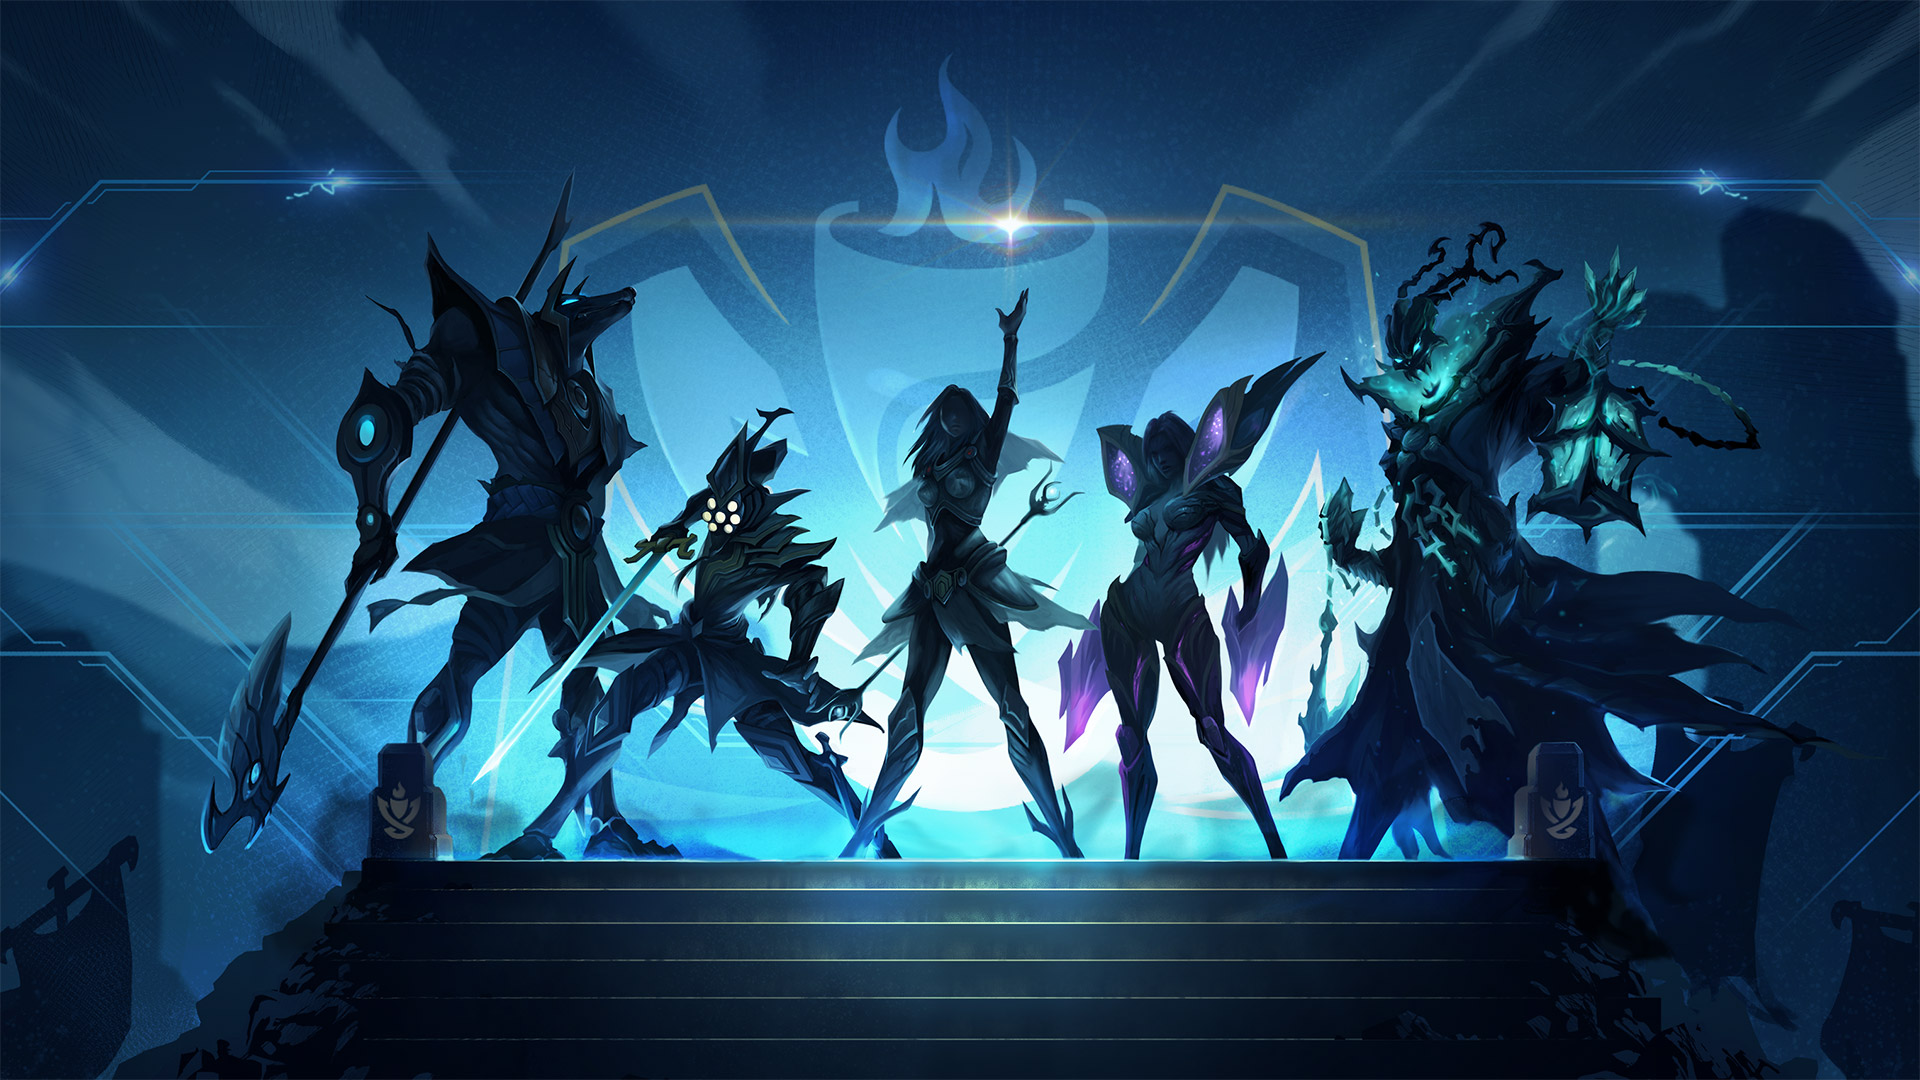
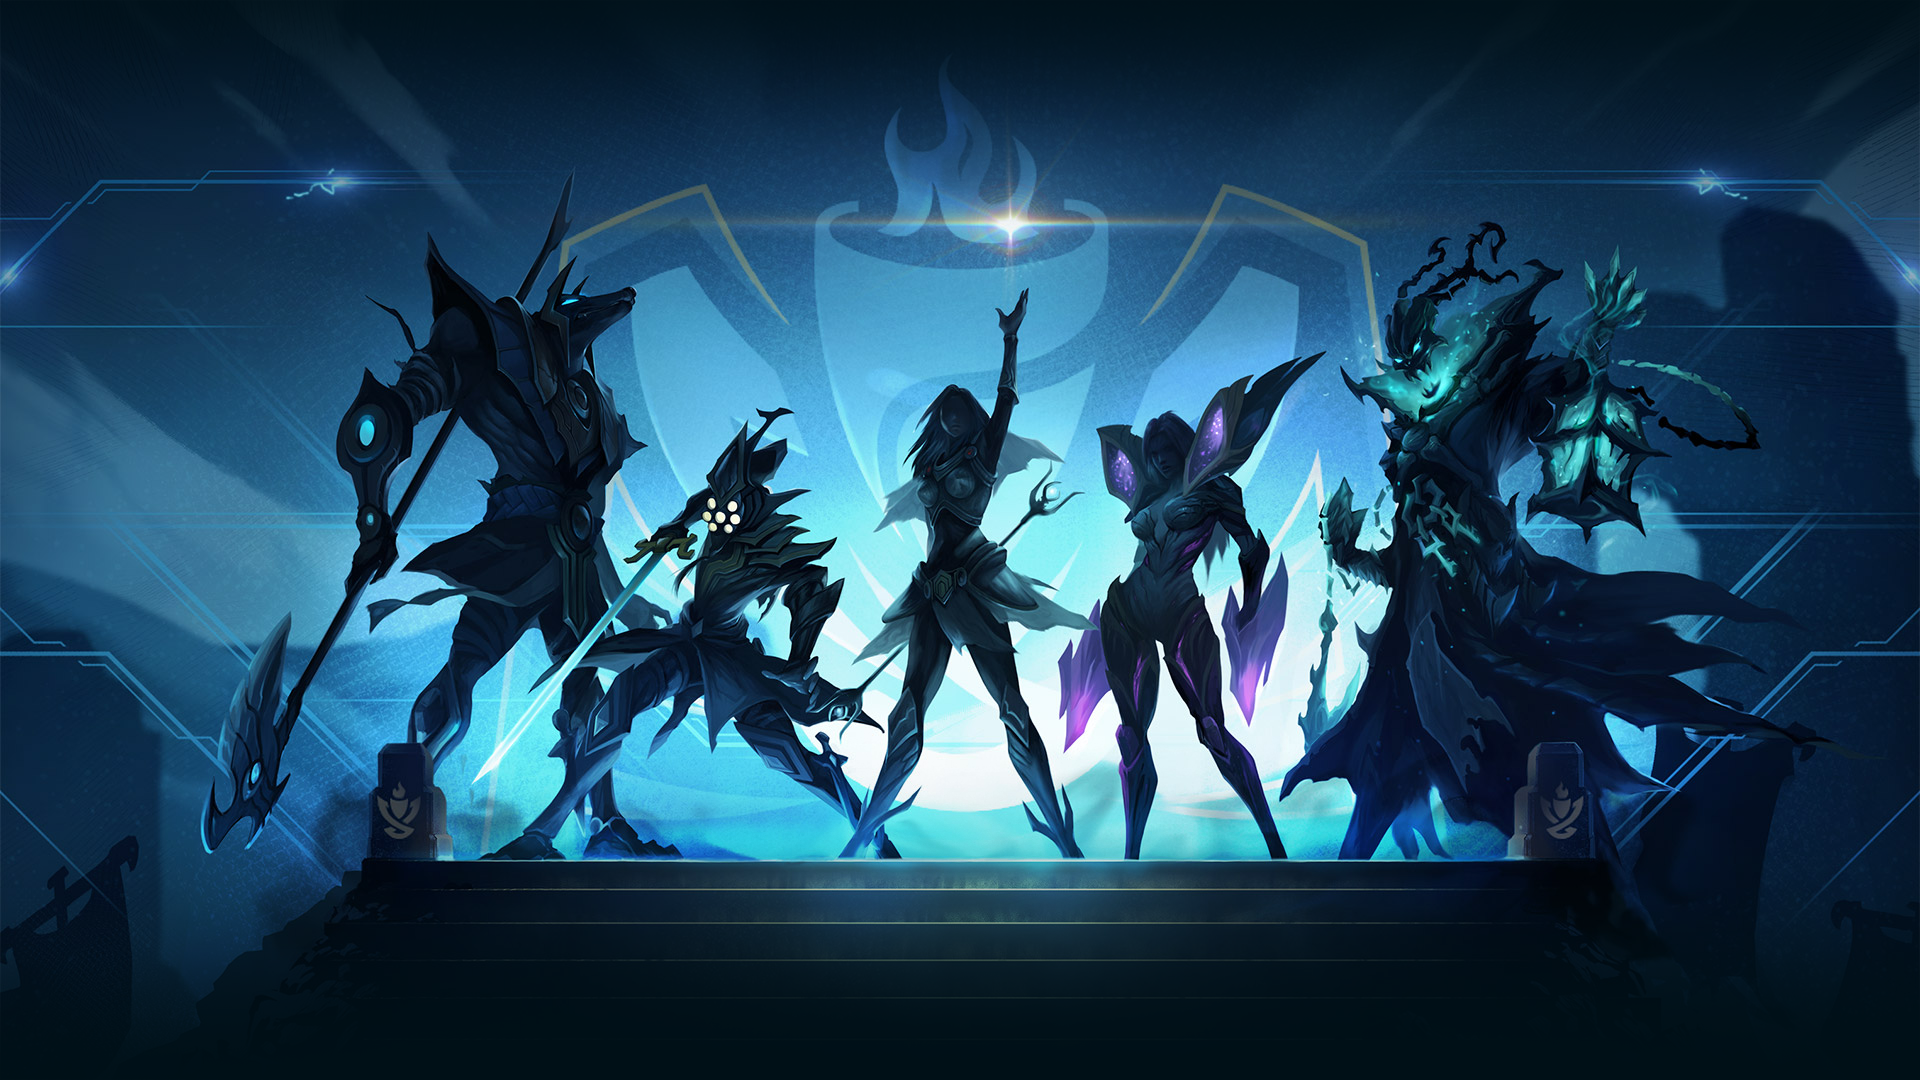
Intro

diff --git a/index.html b/index.html
@@ -13,24 +13,32 @@
 <!-- Head vege -->
 <body>
 
-  <header>
+  <header style="width:100%;">
     <a href="index.html"><img src="kepek/logo.png"></a>
     <nav>
       <ul>
         <li><a href="index.html">Főoldal</a></li>
         <li><a href="index.html">Hírek</a></li>
-        <li><a href="index.html">Elérhetőségek</a></li>
         <li><a href="index.html">Quiz</a></li>
         <div class="dropdown">
           <li>Rólunk<i class="fa fa-caret-down"></i></li>
           <div class="dropdown-content">
-            <a href="index.html">Jungle : Ayahuascae</a>
-            <a href="index.html">Top : frunci</a>
-            <a href="index.html">Bot : xHypeR</a>
-            <a href="index.html">Support : Rampataka</a>
-            <a href="index.html"><img src="kepek/mid.png" style="width:20px;height:20px;float:left;"/>&nbsp;&nbsp;&nbsp;&nbsp;&nbsp;Mid : MakeThemBounce</a>
+            <a href="#frunci"><img src="kepek/top.png" style="width:24px;height:24px;float:left;"/>&nbsp;&nbsp;&nbsp;&nbsp;&nbsp;Frunci<img src="kepek/top.png" style="width:24px;height:24px;float:right;"/></a>
+            <a href="index.html"><img src="kepek/jung.png" style="width:24px;height:24px;float:left;"/>&nbsp;&nbsp;&nbsp;&nbsp;&nbsp;Ayahuascae<img src="kepek/jung.png" style="width:24px;height:24px;float:right;"/></a>
+            <a href="index.html"><img src="kepek/mid.png" style="width:24px;height:24px;float:left;"/>&nbsp;&nbsp;&nbsp;&nbsp;&nbsp;MakeThemBounce<img src="kepek/mid.png" style="width:24px;height:24px;float:right;"/></a>
+            <a href="index.html"><img src="kepek/adc.png" style="width:24px;height:24px;float:left;"/>&nbsp;&nbsp;&nbsp;&nbsp;&nbsp;xHypeR<img src="kepek/adc.png" style="width:24px;height:24px;float:right;"/></a>
+            <a href="index.html"><img src="kepek/sup.png" style="width:24px;height:24px;float:left;"/>&nbsp;&nbsp;&nbsp;&nbsp;&nbsp;Rampataka<img src="kepek/sup.png" style="width:24px;height:24px;float:right;"/></a>
           </div>
         </div>
+        <div class="dropdown">
+          <li>Elérhetőségek<i class="fa fa-caret-down"></i></li>
+          <div class="dropdown-content">
+            <a id="insta" target="_blank" href="https://www.instagram.com/a.takacs.tamas.m8/"><img src="kepek/insta.png" style="width:24px;height:24px;float:left;"/>&nbsp;&nbsp;&nbsp;&nbsp;&nbsp;Instagram<img src="kepek/insta.png" style="width:24px;height:24px;float:right;"/></a>
+            <a id="face" target="_blank" href="https://www.facebook.com/tamas.takacs.948/"><img src="kepek/face.png" style="width:24px;height:24px;float:left;"/>&nbsp;&nbsp;&nbsp;&nbsp;&nbsp;Facebook<img src="kepek/face.png" style="width:24px;height:24px;float:right;"/></a>
+            <a id="github" target="_blank" href="https://github.com/Getlar"><img src="kepek/github.png" style="width:24px;height:24px;float:left;"/>&nbsp;&nbsp;&nbsp;&nbsp;&nbsp;GitHub<img src="kepek/github.png" style="width:24px;height:24px;float:right;"/></a>
+          </div>
+        </div>
+        <li><a id="login"style="float:right;"href="index.html">Login<img src="kepek/login.png" style="width:24px;height:24px;float:right;"/></a></li>
       </ul>
     </nav>
   </header>
@@ -40,21 +48,45 @@
     <div class="szoveg">
       <h1>Diversity &nbsp;&nbsp;&nbsp;&nbsp;eSports</h1>
     </div>
-    <br>
-    <br>
-    <br>
-    <br>
-    <br>
-    <br>
-    <br>
-    <br>
-    <br>
-    <br>
-    <br>
-    <br>
-    <br>
-    <br>
+    <div class="intro">
+      Lorem ipsum dolor sit amet, consectetur adipiscing elit. Phasellus nec ex vitae lorem accumsan iaculis sed ut ex. Donec pellentesque eget velit rutrum ultricies. Praesent sagittis turpis a orci dignissim, in pretium urna pharetra. Sed ac gravida ligula, a vestibulum mi. Phasellus ut nisl sem. Vivamus consectetur libero in lectus cursus, at sodales nulla posuere. Proin efficitur lorem dui, quis convallis orci ultrices ut. Morbi non ornare purus. Cras ultricies blandit neque. Maecenas vel ligula ligula. Nunc feugiat, augue sit amet condimentum bibendum, sem massa rhoncus justo, sed elementum sem orci sed nulla. Donec euismod congue felis vitae blandit. Donec varius auctor maximus. Nunc iaculis enim nec mi suscipit dignissim. Pellentesque nec nulla vitae est volutpat maximus ut nec lacus.
+
+      Ut luctus fringilla viverra. Maecenas iaculis metus eu risus auctor, id porta dui finibus. Curabitur dictum libero eu ligula convallis cursus. Interdum et malesuada fames ac ante ipsum primis in faucibus. Sed sagittis lacus felis, a aliquet metus porttitor sed. Cras posuere nisl ut lectus eleifend, eu blandit erat mollis. Donec dignissim risus quis neque semper, nec fermentum mi mollis. Nullam lorem nisl, molestie non sem ac, venenatis interdum justo.
+
   </div>
+  <img class="separator" src="kepek/hr.png">
+  <div class="roles">
+    <p>Pozíciók</p>
+    <img class="sumicon" src="kepek/sumicon.png">
+    <div id="frunci">
+
+    </div>
+  </div>
+  <br>
+  <br>
+  <br>
+  <br>
+  <br>
+  <br>
+
+  <br>
+  <br>
+  <br>
+  <br>
+
+
+
+  <br>
+  <br>
+  <br>
+  <br>
+  <br>
+  <var>
+  <br>
+  <br>
+  <br>
+  <br>
+  <br>
 
 
   <!--

diff --git a/styles.css b/styles.css
@@ -1,6 +1,6 @@
 @charset "UTF-16";
 body{
-  background-color: #3e4444;
+  background-color: #001017;
   /*background-image: url('kepek/bk.png');
   background-repeat: no-repeat;
   background-attachment: fixed;
@@ -46,12 +46,8 @@ header li a{
 }
 header li a:hover{
    text-shadow: 5px 5px 5px black;
-   color:#E4D33F;
+   color:#cdba87;
 }
-
-
-
-
 
 
 header .dropdown li {
@@ -71,7 +67,7 @@ header .dropdown{
 header .dropdown-content{
   display: none;
   position:absolute;
-  background-color: rgb(0,16,23,0.8);
+  background-color: rgb(0,16,23,0.6);
   min-width: 100px;;
   box-shadow: 0px 8px 16px 0px rgba(0,0,0,0.2);
   z-index: 1;
@@ -79,6 +75,12 @@ header .dropdown-content{
 header .dropdown-content a{
   float: none;
   padding: 10px;
+  color: white;
+  text-transform: uppercase;
+  border: 2px solid black;
+  border-top: 0px;
+  font-family: "Calibri",sans-serif;
+  font-size: 15px;
   padding-left: 0px;
   padding-right: 20px;
   text-decoration: none;
@@ -90,21 +92,40 @@ header .dropdown:hover{
 }
 header .dropdown li:hover{
   text-shadow: 5px 5px 5px black;
-  color:#E4D33F;
+  color:#cdba87;
 }
 
 header .dropdown:hover .dropdown-content{
   display:inline-grid;
 }
+header .dropdown .dropdown-content a:hover{
+  text-shadow: 3px 3px 3px black;
+  color:#cdba87;
+  background-color: rgba(255, 255, 255, 0.5);
+}
 
-
+header .dropdown .dropdown-content #insta:hover{
+  text-shadow: 3px 3px 3px black;
+  color:#cf4667;
+}
+header .dropdown .dropdown-content #face:hover{
+  text-shadow: 3px 3px 3px black;
+  color:#4267b2;
+}
+header .dropdown .dropdown-content #github:hover{
+  text-shadow: 3px 3px 3px black;
+  color:white;
+}
+header li #login:hover{
+  color:white;
+}
 
 
 .wrapper{
   background-image: url('kepek/bek.png');
   background-repeat: no-repeat;
   background-position: top center;
-  background-size: cover;
+  background-size: auto;
 }
 .szoveg{
   margin-top: 40px;
@@ -125,7 +146,43 @@ header .dropdown:hover .dropdown-content{
   font-size: 50px;
   letter-spacing: 5px;
 }
-
+.intro{
+  padding-top: 270px;
+  padding-left: 300px;
+  padding-right: 300px;
+  text-align: center;
+  color:white;
+  font-family: "Calibri",sans-serif;
+  font-weight: lighter;
+  font-size: 30px;
+  letter-spacing: 3px;
+  line-height: 50px;
+}
+.roles{
+  margin-top: -20px;
+  padding-top: 0px;
+  text-align: center;
+}
+.roles p{
+  color:#cdba87;
+  text-transform: uppercase;
+  font-family: "Calibri",sans-serif;
+  font-weight: lighter;
+  font-size: 75px;
+  letter-spacing: 10px;
+  margin-bottom: 20px;
+}
+.separator{
+  padding-top: 50px;
+  margin-left: auto;
+  margin-right: auto;
+  display: block;
+}
+.sumicon{
+  margin-left: auto;
+  margin-right: auto;
+  display: block;
+}
 
 
 @media only screen and (max-width:800px) {
